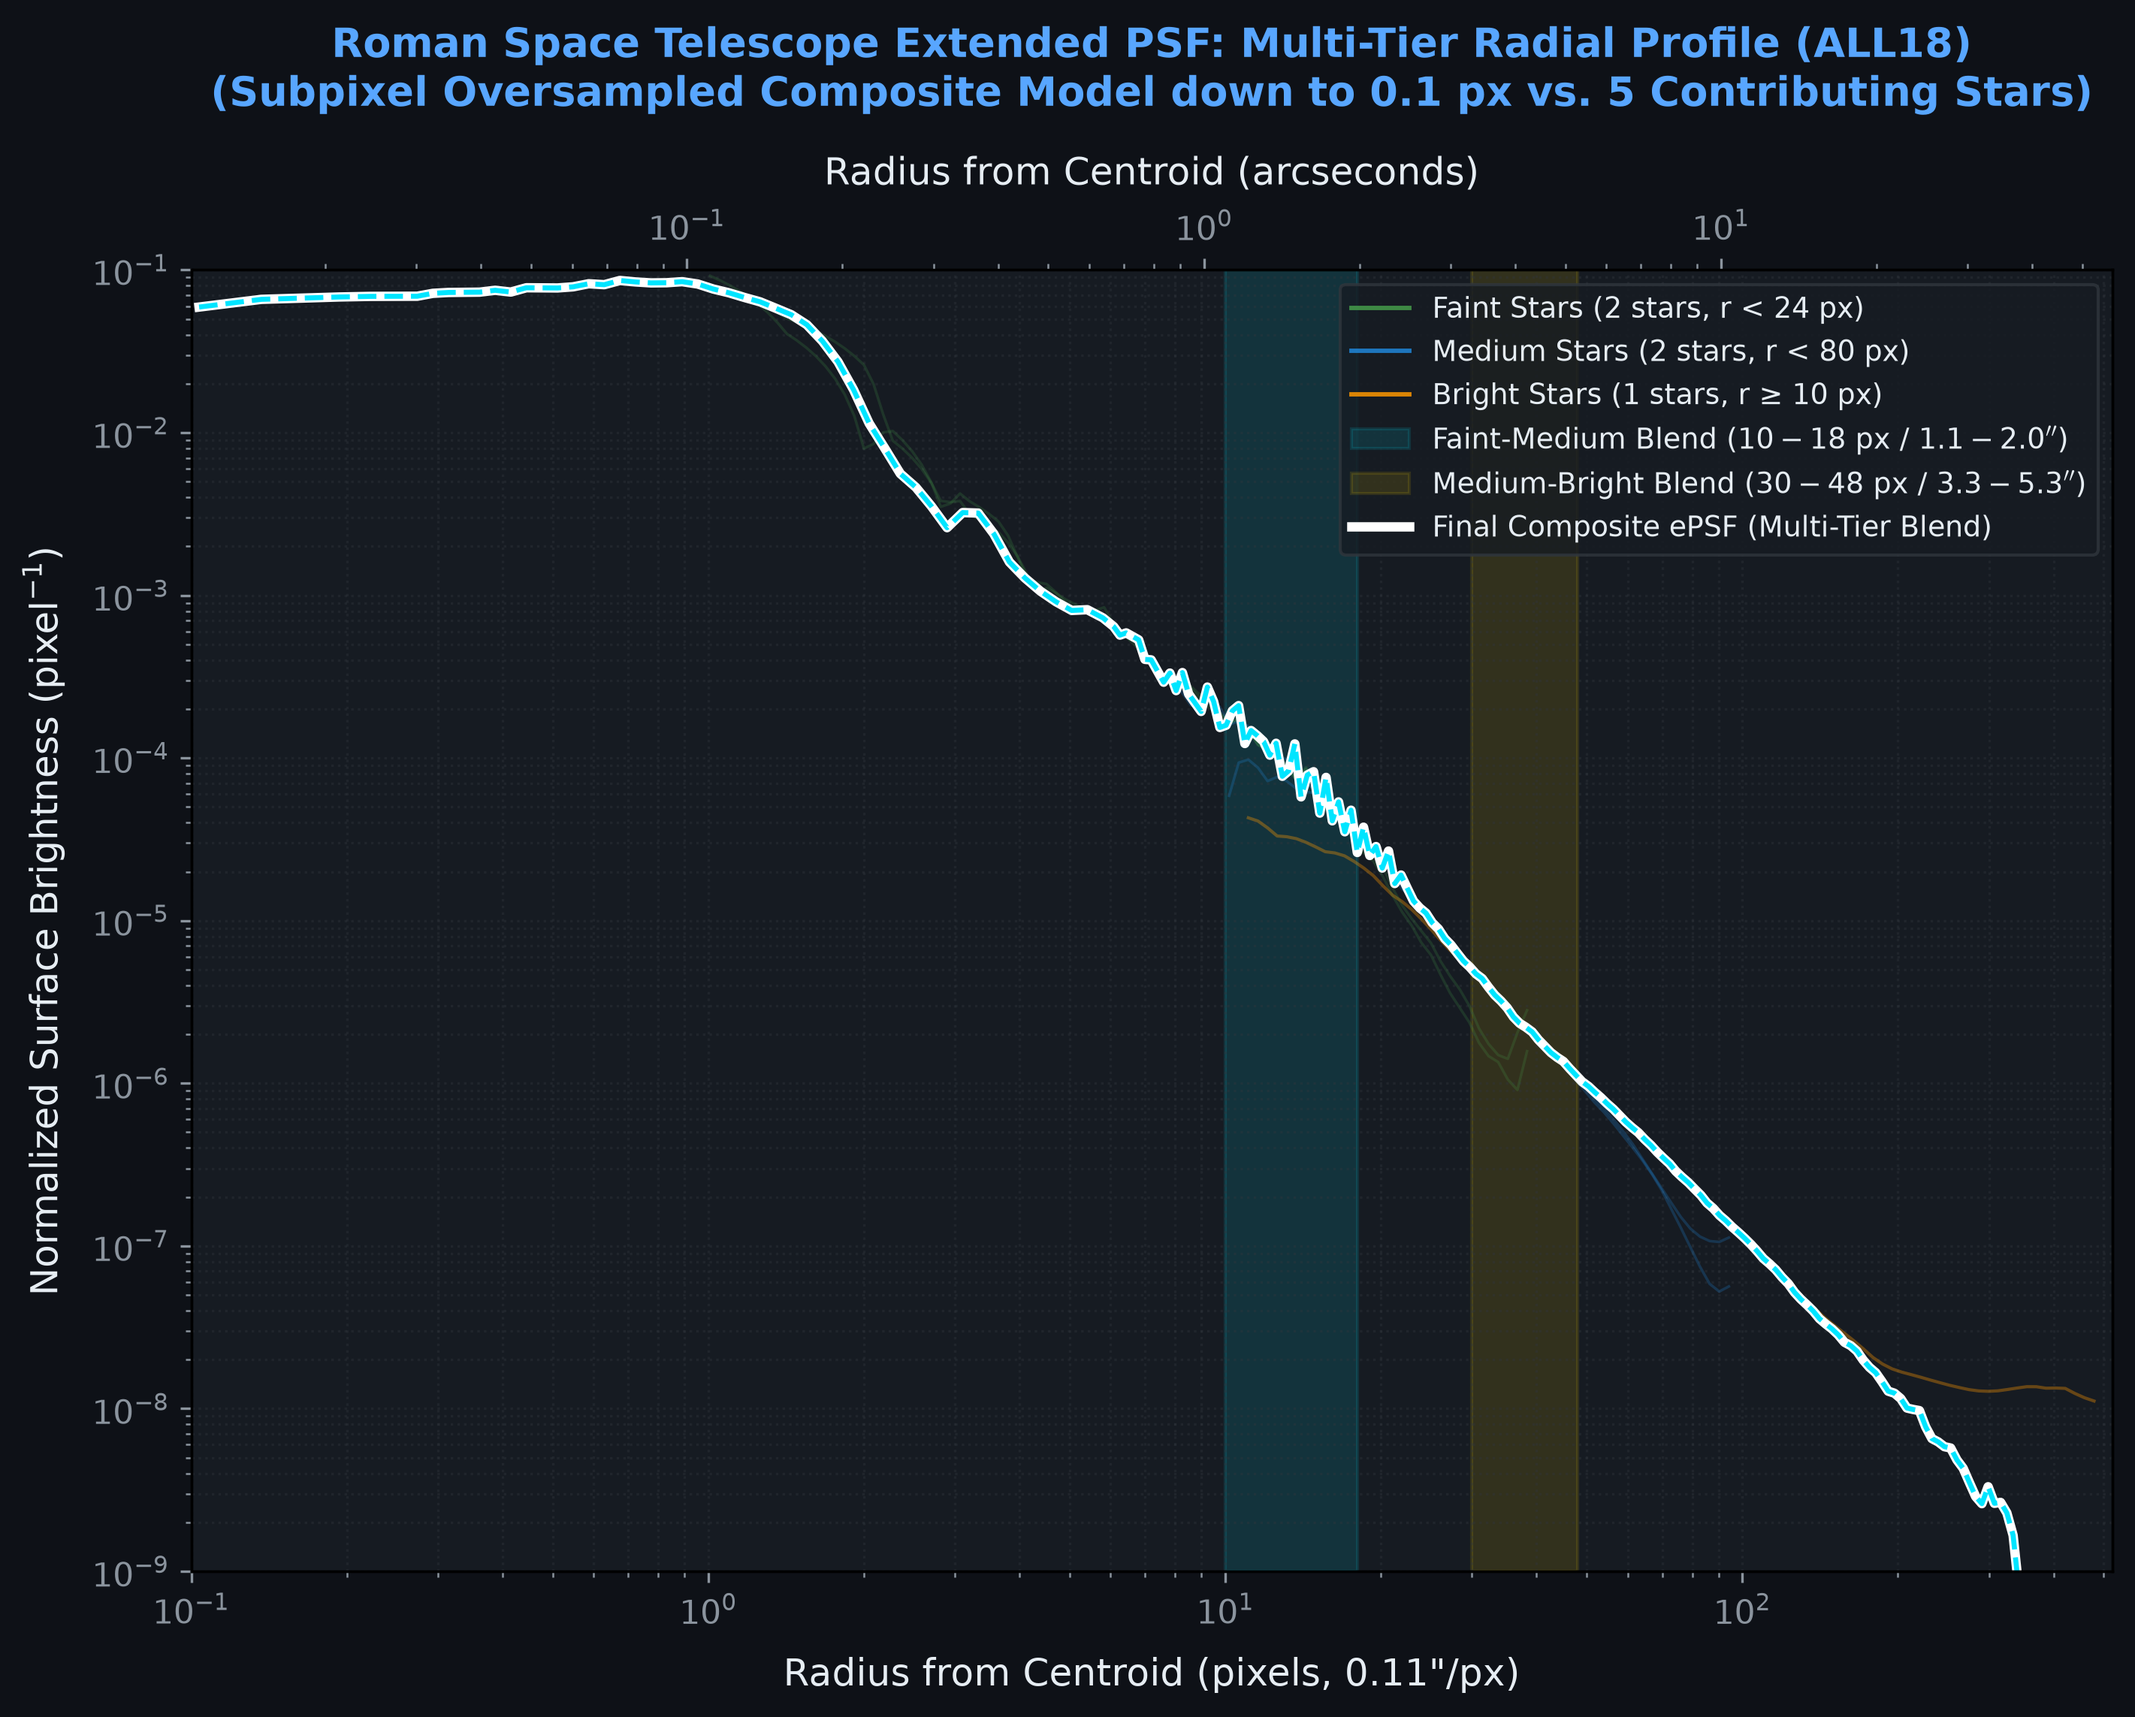
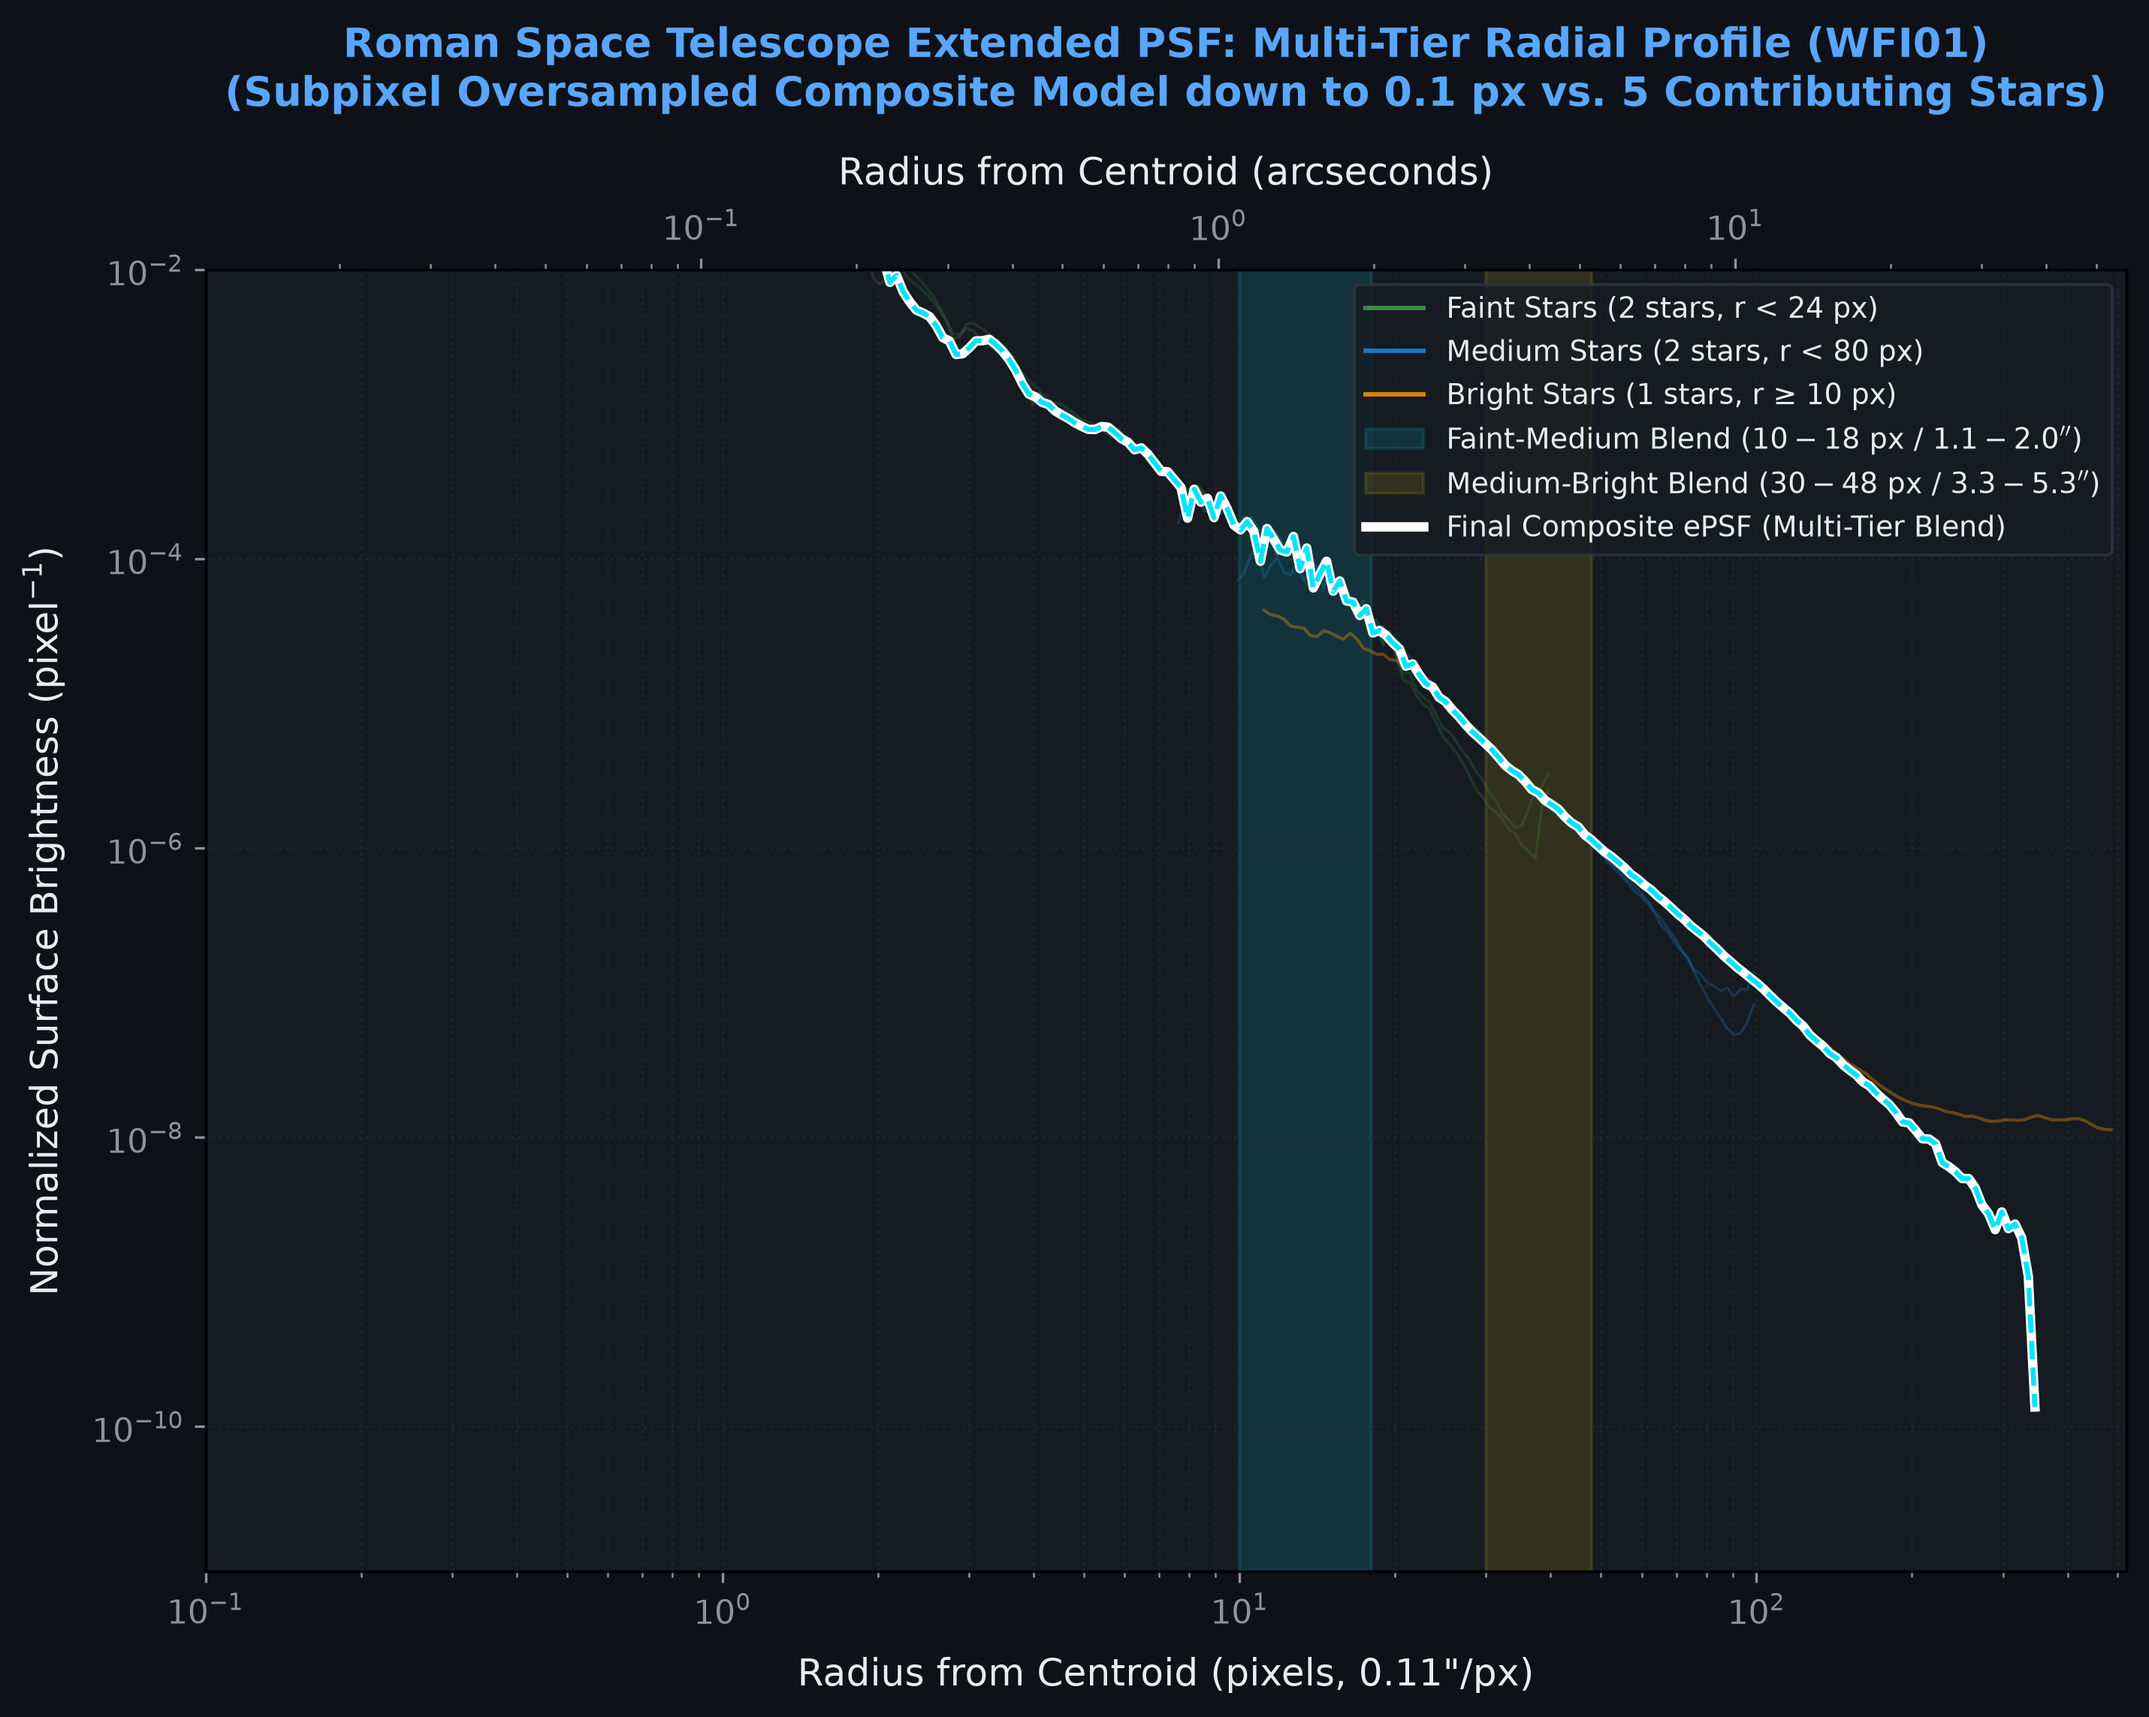
feat(debug): overlay contaminant mask in cyan and quality flags in green with alpha=0.5

diff --git a/src/romanepsf/debug_plots.py b/src/romanepsf/debug_plots.py
@@ -23,7 +23,7 @@ import matplotlib
 matplotlib.use("Agg")
 import matplotlib.pyplot as plt
 from matplotlib.colors import LogNorm, Normalize
-from matplotlib.patches import Circle
+from matplotlib.patches import Circle, Patch
 from mpl_toolkits.axes_grid1.inset_locator import inset_axes
 import numpy as np
 
@@ -74,10 +74,12 @@ def generate_debug_figure1_masking_procedure(
     output_path: Path,
     star_info: Optional[Dict[str, Any]] = None,
     is_calibrated: bool = True,
+    dq_mask: Optional[np.ndarray] = None,
 ) -> Path:
     """
     Figure 1: Masking procedure in 4 panels with identical magnitude scale:
-    (image, radial model, residual, image+mask).
+    (image, radial model, residual, image + mask & quality flags overlay).
+    Mask is overlaid in semi-transparent cyan (alpha~0.5) and quality flags in green (alpha~0.5).
     """
     output_path = Path(output_path)
     output_path.parent.mkdir(parents=True, exist_ok=True)
@@ -86,13 +88,20 @@ def generate_debug_figure1_masking_procedure(
     tier = str(info.get("tier", "unknown")).upper()
     mag = float(info.get("mag", 0.0))
 
+    if dq_mask is None and star_info is not None:
+        dq_mask = star_info.get("dq_mask", None)
+
+    if dq_mask is not None:
+        is_dq = dq_mask.astype(bool)
+        is_contam = final_mask.astype(bool) & (~is_dq)
+    else:
+        is_dq = np.zeros_like(final_mask, dtype=bool)
+        is_contam = final_mask.astype(bool)
+
     # Convert to AB mag / arcsec^2
     mag_img = convert_to_ab_mag_arcsec2(stamp, conversion_factor, is_calibrated)
     mag_mod = convert_to_ab_mag_arcsec2(radial_model, conversion_factor, is_calibrated)
     mag_res = convert_to_ab_mag_arcsec2(np.abs(residual), conversion_factor, is_calibrated)
-
-    masked_stamp = np.where(final_mask, np.nan, stamp)
-    mag_masked = convert_to_ab_mag_arcsec2(masked_stamp, conversion_factor, is_calibrated)
 
     # Establish common magnitude dynamic range from the valid star image
     valid_mags = mag_img[np.isfinite(mag_img)]
@@ -116,9 +125,9 @@ def generate_debug_figure1_masking_procedure(
         "1. Calibrated Image",
         "2. Radial Model (2D)",
         "3. Residual (|Image - Model|)",
-        "4. Image + Mask (Cleaned)",
+        "4. Mask & DQ Overlay (alpha=0.5)",
     ]
-    data_list = [mag_img, mag_mod, mag_res, mag_masked]
+    data_list = [mag_img, mag_mod, mag_res, mag_img]
 
     for idx, (ax, data, title) in enumerate(zip(axes, data_list, titles)):
         ax.set_facecolor("#161b22")
@@ -131,12 +140,21 @@ def generate_debug_figure1_masking_procedure(
         for spine in ax.spines.values():
             spine.set_color("#30363d")
 
-        # In panel 4, overlay subtle red contour on masked regions and circle Gaia companion stars
+        # In panel 4: overlay cyan mask and green quality flags with alpha=0.5
         if idx == 3:
-            if np.any(final_mask):
-                ax.contour(final_mask, levels=[0.5], colors=["#ff5252"], linewidths=1.0)
+            ny, nx = stamp.shape
+            if np.any(is_contam):
+                overlay_cyan = np.zeros((ny, nx, 4), dtype=np.float32)
+                overlay_cyan[is_contam] = [0.0, 0.9, 1.0, 0.5]  # Entire mask with cyan, alpha=0.5
+                ax.imshow(overlay_cyan, origin="lower")
+
+            if np.any(is_dq):
+                overlay_green = np.zeros((ny, nx, 4), dtype=np.float32)
+                overlay_green[is_dq] = [0.0, 0.9, 0.2, 0.5]  # Quality flags with green, alpha=0.5
+                ax.imshow(overlay_green, origin="lower")
+
             comps = info.get("gaia_companions", [])
-            for c_idx, comp in enumerate(comps):
+            for comp in comps:
                 circ = Circle(
                     (comp["x"], comp["y"]),
                     comp["radius_px"],
@@ -144,12 +162,19 @@ def generate_debug_figure1_masking_procedure(
                     edgecolor="#ffd600",
                     linestyle="--",
                     linewidth=1.4,
-                    label="Gaia Companion Mask" if c_idx == 0 else None,
                 )
                 ax.add_patch(circ)
                 ax.plot(comp["x"], comp["y"], "+", color="#ffd600", markersize=7, markeredgewidth=1.3)
+
+            legend_elements = []
+            if np.any(is_contam):
+                legend_elements.append(Patch(facecolor=(0.0, 0.9, 1.0, 0.5), edgecolor="#00e5ff", label="Mask (Cyan, $\\alpha=0.5$)"))
+            if np.any(is_dq):
+                legend_elements.append(Patch(facecolor=(0.0, 0.9, 0.2, 0.5), edgecolor="#00e676", label="Quality Flags (Green, $\\alpha=0.5$)"))
             if len(comps) > 0:
-                ax.legend(loc="upper right", facecolor="#161b22", edgecolor="#30363d", labelcolor="#e6edf3", fontsize=8.0)
+                legend_elements.append(plt.Line2D([0], [0], color="#ffd600", linestyle="--", linewidth=1.4, label=f"Gaia Companions ({len(comps)})"))
+            if legend_elements:
+                ax.legend(handles=legend_elements, loc="upper right", facecolor="#161b22", edgecolor="#30363d", labelcolor="#e6edf3", fontsize=8.0)
 
     # Shared colorbar
     cbar_ax = fig.add_axes([0.92, 0.15, 0.015, 0.7])
@@ -184,10 +209,12 @@ def generate_debug_figure2_apertures_and_profile(
     star_info: Optional[Dict[str, Any]] = None,
     is_calibrated: bool = True,
     center_xy: Optional[Tuple[float, float]] = None,
+    dq_mask: Optional[np.ndarray] = None,
 ) -> Path:
     """
     Figure 2: 2 panels:
-    - Left: Masked image with overlaid concentric radial profile apertures.
+    - Left: Calibrated image with overlaid concentric profile apertures,
+      contaminant mask (cyan, alpha=0.5), and quality flags (green, alpha=0.5).
     - Right: Radial profile in surface brightness (AB mag / arcsec^2).
     """
     output_path = Path(output_path)
@@ -201,13 +228,23 @@ def generate_debug_figure2_apertures_and_profile(
     cx = center_xy[0] if center_xy else (nx - 1.0) / 2.0
     cy = center_xy[1] if center_xy else (ny - 1.0) / 2.0
 
-    masked_img = np.where(mask, np.nan, stamp)
-    mag_img = convert_to_ab_mag_arcsec2(masked_img, conversion_factor, is_calibrated)
+    if dq_mask is None and star_info is not None:
+        dq_mask = star_info.get("dq_mask", None)
+
+    if dq_mask is not None:
+        is_dq = dq_mask.astype(bool)
+        is_contam = mask.astype(bool) & (~is_dq)
+    else:
+        is_dq = np.zeros_like(mask, dtype=bool)
+        is_contam = mask.astype(bool)
+
+    # Use full stamp so sources below masks can be seen
+    mag_img = convert_to_ab_mag_arcsec2(stamp, conversion_factor, is_calibrated)
     prof_mag = convert_to_ab_mag_arcsec2(rad_flux, conversion_factor, is_calibrated)
 
     fig, (ax1, ax2) = plt.subplots(1, 2, figsize=(16, 7), facecolor="#0e1117")
 
-    # Panel 1: Masked Image with Overlaid Geometric Apertures
+    # Panel 1: Image with Overlaid Geometric Apertures and Masks
     ax1.set_facecolor("#161b22")
     valid_mags = mag_img[np.isfinite(mag_img)]
     vmin = max(float(np.nanpercentile(valid_mags, 0.5)), 8.0) if len(valid_mags) else 12.0
@@ -219,10 +256,22 @@ def generate_debug_figure2_apertures_and_profile(
         cmap.set_bad(color="#1a1e24")
 
     im1 = ax1.imshow(mag_img, origin="lower", cmap=cmap, vmin=vmin, vmax=vmax)
-    ax1.set_title("Masked Image with Profile Annuli Overlaid", color="#58a6ff", fontsize=12, fontweight="bold", pad=8)
+    ax1.set_title("Image with Profile Annuli, Mask (Cyan) & DQ (Green) Overlaid", color="#58a6ff", fontsize=12, fontweight="bold", pad=8)
     ax1.set_xlabel("X (pixels)", color="#e6edf3", fontsize=10)
     ax1.set_ylabel("Y (pixels)", color="#e6edf3", fontsize=10)
     ax1.tick_params(colors="#8b949e", labelsize=9)
+
+    # Overlay cyan contaminant mask (alpha=0.5)
+    if np.any(is_contam):
+        overlay_cyan = np.zeros((ny, nx, 4), dtype=np.float32)
+        overlay_cyan[is_contam] = [0.0, 0.9, 1.0, 0.5]
+        ax1.imshow(overlay_cyan, origin="lower")
+
+    # Overlay green quality flags (alpha=0.5)
+    if np.any(is_dq):
+        overlay_green = np.zeros((ny, nx, 4), dtype=np.float32)
+        overlay_green[is_dq] = [0.0, 0.9, 0.2, 0.5]
+        ax1.imshow(overlay_green, origin="lower")
 
     # Draw subset of concentric geometric circles (sample every 6th bin to prevent visual saturation)
     sub_bins = rad_bins[::6] if len(rad_bins) > 12 else rad_bins
@@ -236,7 +285,7 @@ def generate_debug_figure2_apertures_and_profile(
 
     # Overlay Gaia companion star circular apertures
     comps = info.get("gaia_companions", [])
-    for c_idx, comp in enumerate(comps):
+    for comp in comps:
         circ = Circle(
             (comp["x"], comp["y"]),
             comp["radius_px"],
@@ -244,12 +293,21 @@ def generate_debug_figure2_apertures_and_profile(
             edgecolor="#ffd600",
             linestyle="--",
             linewidth=1.4,
-            label="Gaia Companion Mask" if c_idx == 0 else None,
         )
         ax1.add_patch(circ)
         ax1.plot(comp["x"], comp["y"], "+", color="#ffd600", markersize=7, markeredgewidth=1.3)
 
-    ax1.legend(loc="upper right", facecolor="#161b22", edgecolor="#30363d", labelcolor="#e6edf3", fontsize=8.5)
+    legend_elements = [
+        plt.Line2D([0], [0], color="#00e5ff", marker="+", linestyle="none", markersize=10, markeredgewidth=1.5, label="Centroid"),
+    ]
+    if np.any(is_contam):
+        legend_elements.append(Patch(facecolor=(0.0, 0.9, 1.0, 0.5), edgecolor="#00e5ff", label="Mask (Cyan, $\\alpha=0.5$)"))
+    if np.any(is_dq):
+        legend_elements.append(Patch(facecolor=(0.0, 0.9, 0.2, 0.5), edgecolor="#00e676", label="Quality Flags (Green, $\\alpha=0.5$)"))
+    if len(comps) > 0:
+        legend_elements.append(plt.Line2D([0], [0], color="#ffd600", linestyle="--", linewidth=1.4, label=f"Gaia Companions ({len(comps)})"))
+
+    ax1.legend(handles=legend_elements, loc="upper right", facecolor="#161b22", edgecolor="#30363d", labelcolor="#e6edf3", fontsize=8.0)
 
     cbar1 = fig.colorbar(im1, ax=ax1, shrink=0.85)
     cbar1.set_label("AB mag / arcsec$^2$", color="#e6edf3", fontsize=10)
@@ -633,6 +691,7 @@ def generate_all_debug_plots(
             "tier": tier_name,
             "mag": mag_val,
             "gaia_companions": dbg.get("gaia_companions", []),
+            "dq_mask": dbg.get("dq_mask", None),
         }
 
         # Measure 1D profile for the star stamp

diff --git a/src/romanepsf/stamps.py b/src/romanepsf/stamps.py
@@ -576,6 +576,7 @@ def process_star_stamps(
                 "is_calibrated": bool(getattr(l2_data, "is_calibrated", True)),
                 "center_stamp": (half + sub_dx, half + sub_dy),
                 "gaia_companions": stamp_companions,
+                "dq_mask": dq_mask_bool,
             }
 
             stamp_obj = StellarStamp(
